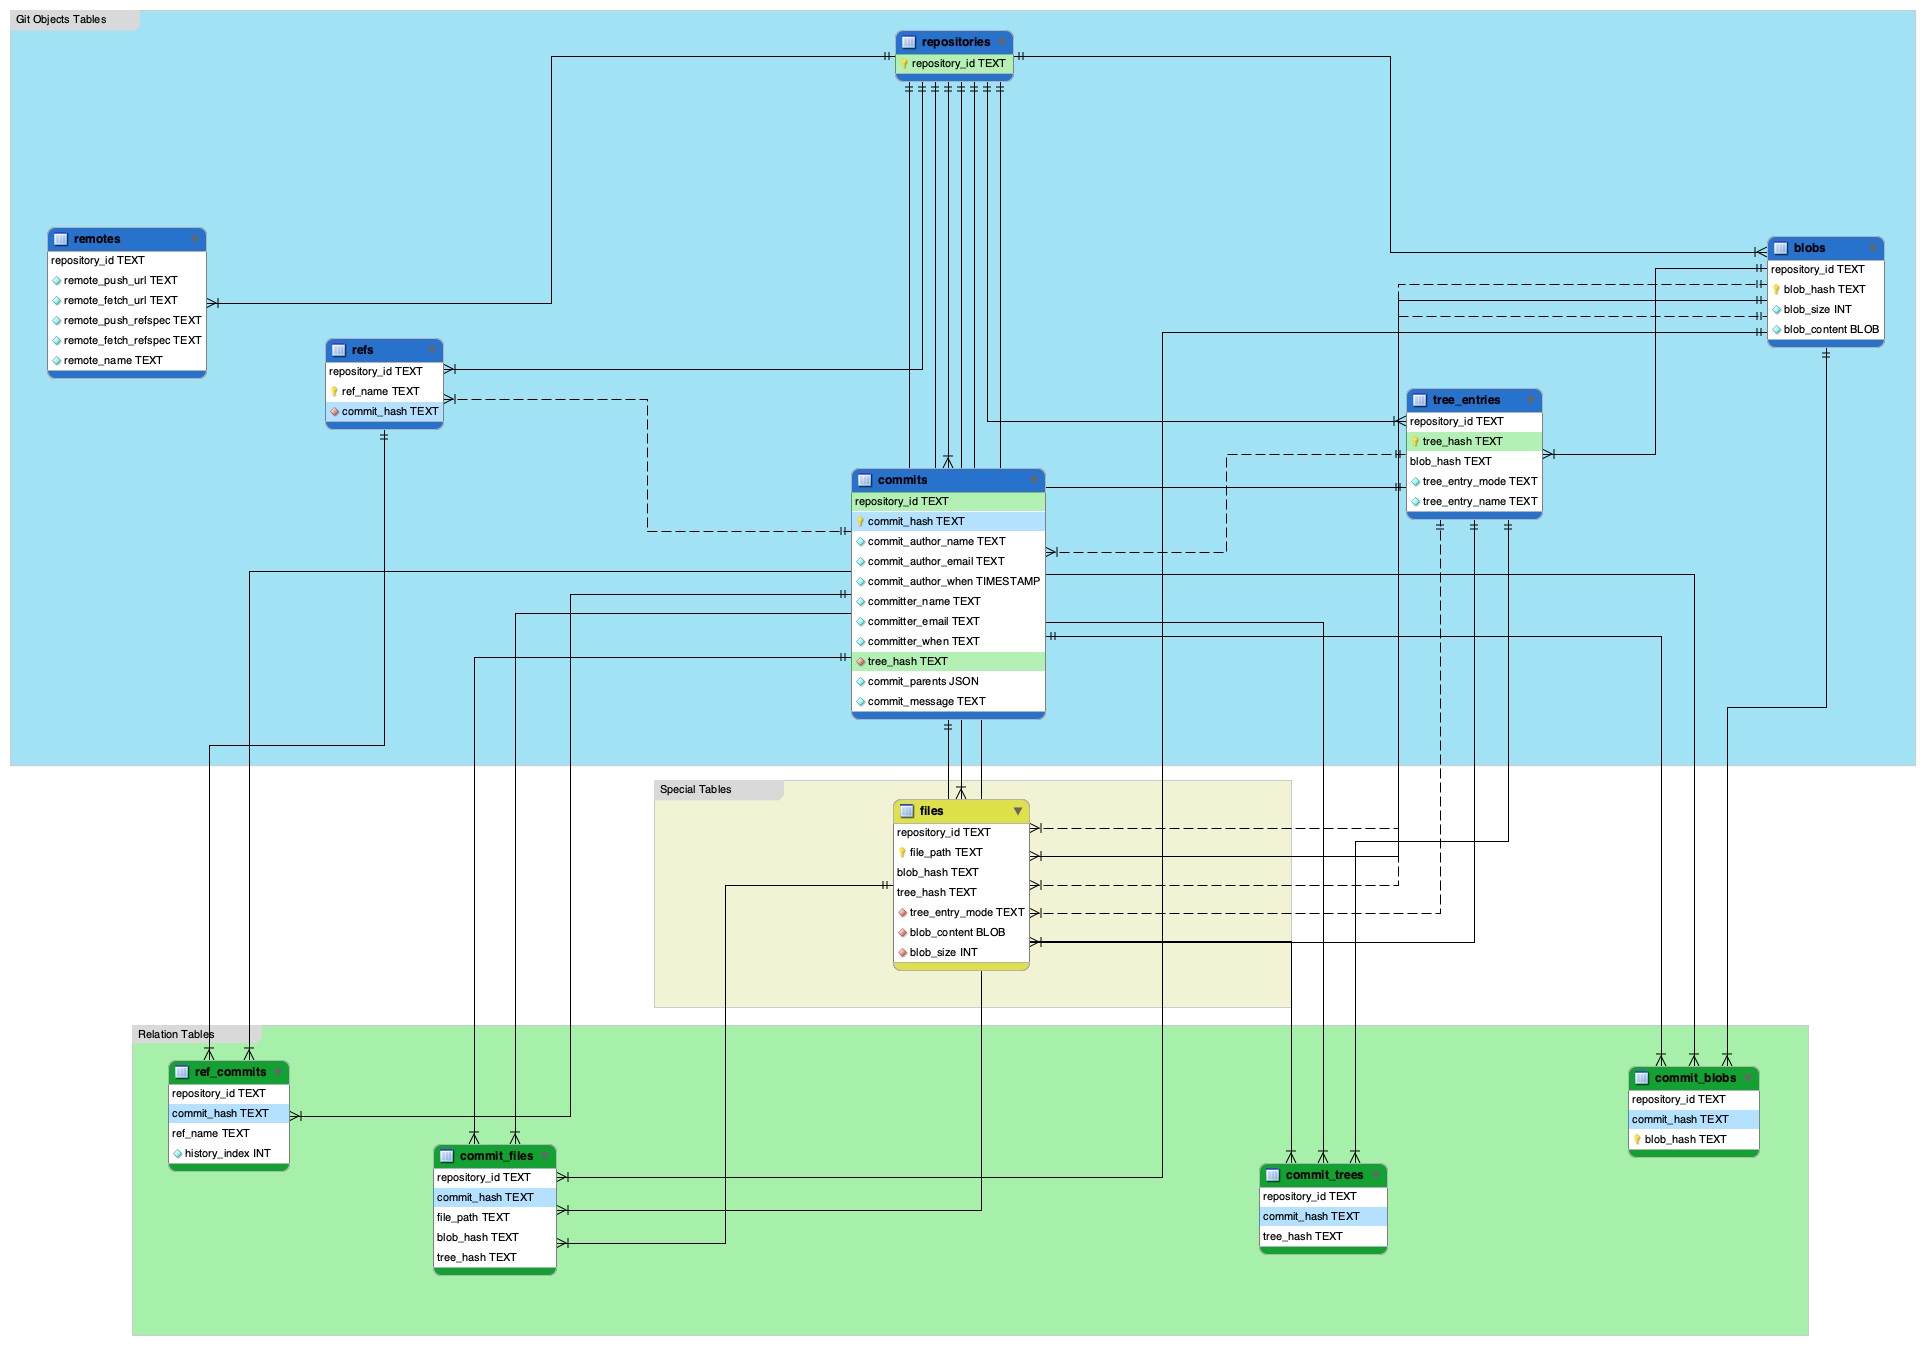
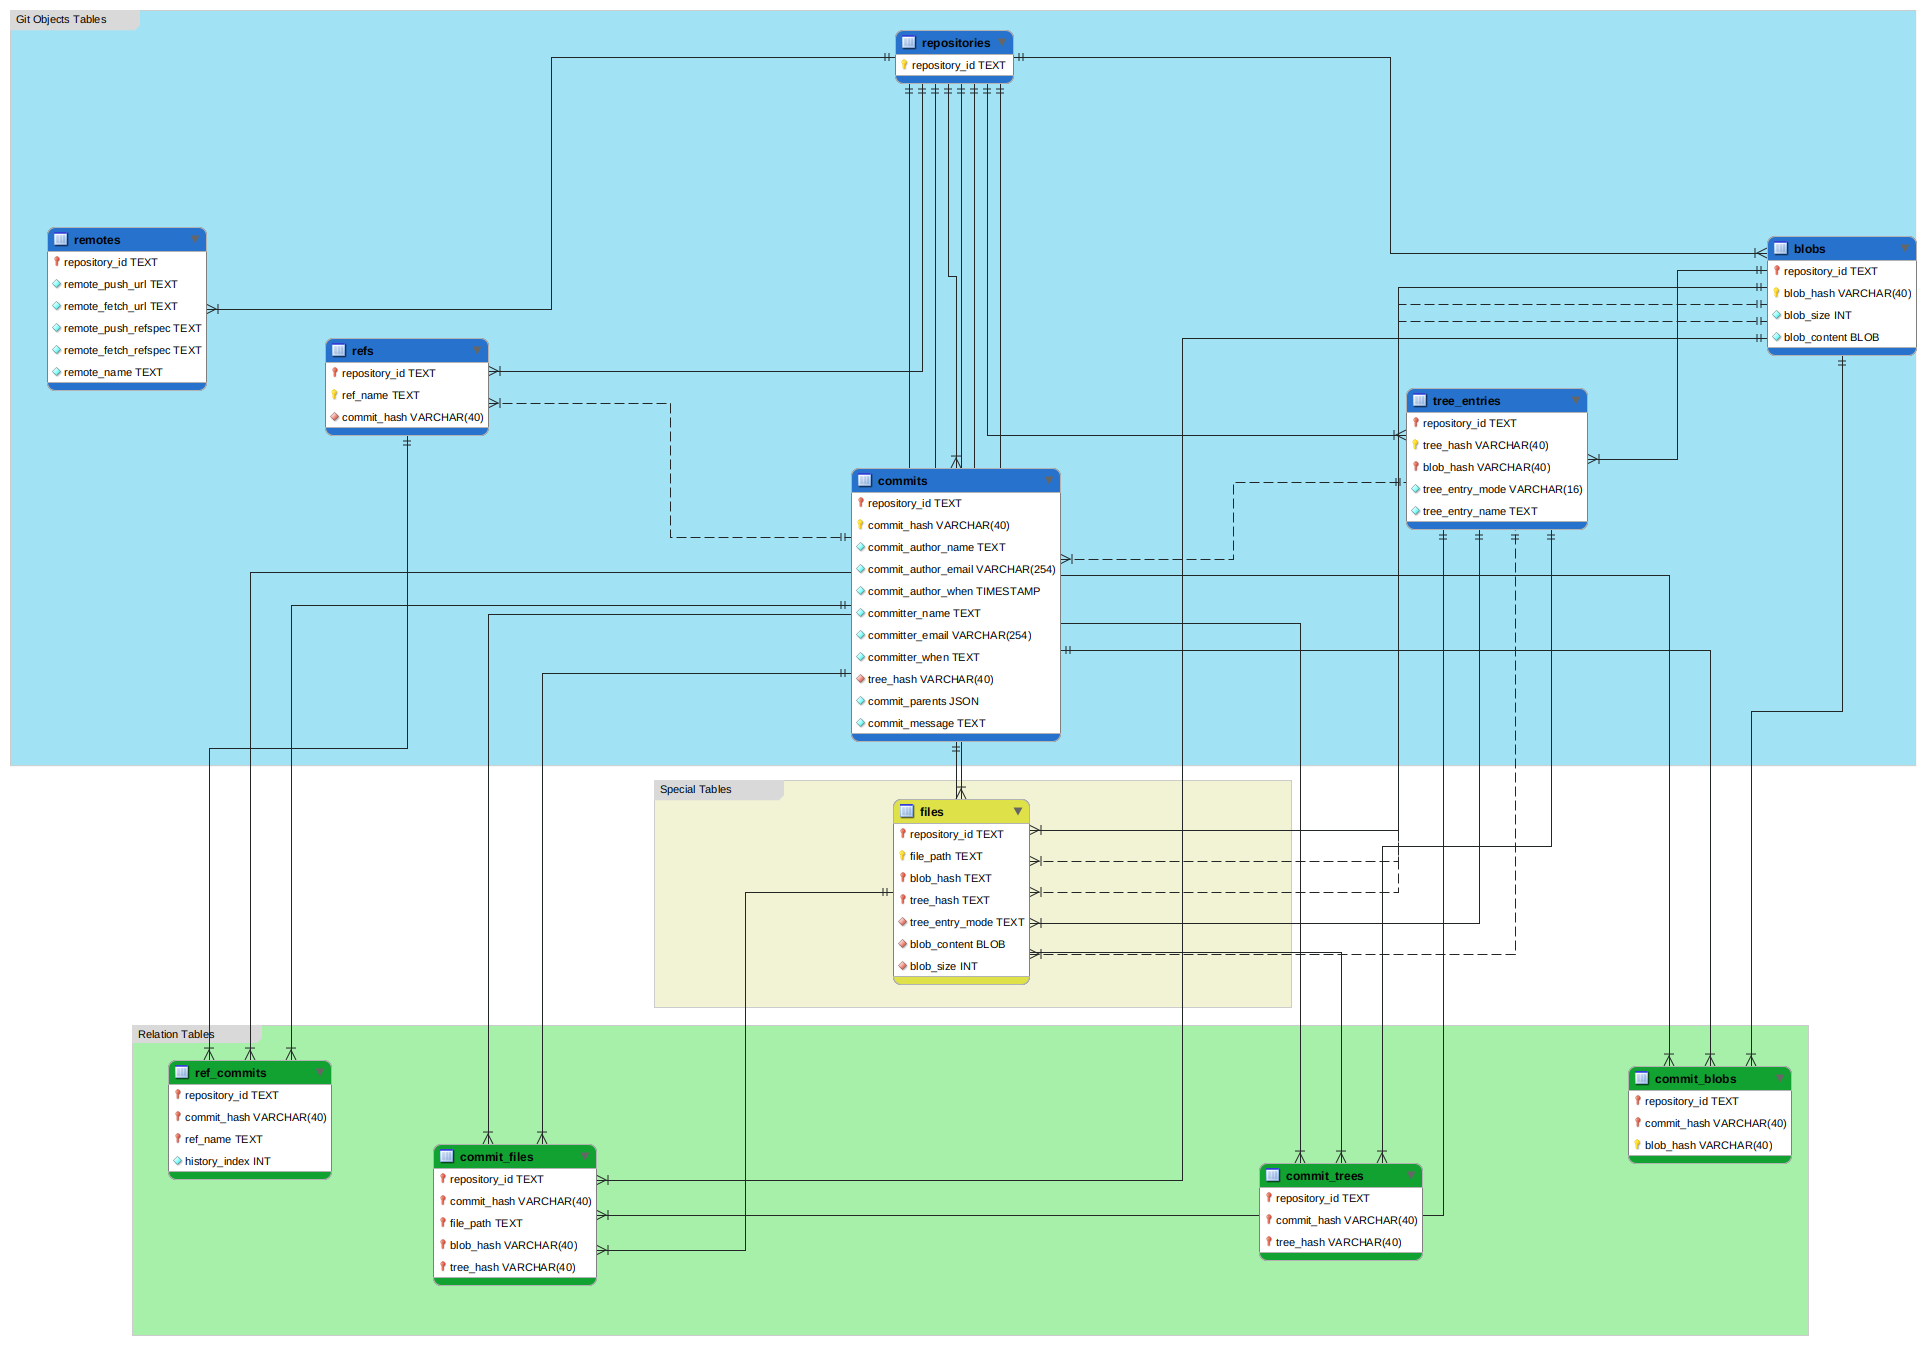
Update schema.md and png files

diff --git a/docs/using-gitbase/schema.md b/docs/using-gitbase/schema.md
@@ -38,33 +38,33 @@ This table will return all the [remotes](https://git-scm.com/book/en/v2/Git-Basi
 
 ### refs
 ``` sql
-+---------------+------+
-| name          | type |
-+---------------+------+
-| repository_id | TEXT |
-| ref_name      | TEXT |
-| commit_hash   | TEXT |
-+---------------+------+
++---------------+-------------+
+| name          | type        |
++---------------+-------------+
+| repository_id | TEXT        |
+| ref_name      | TEXT        |
+| commit_hash   | VARCHAR(40) |
++---------------+-------------+
 ```
 This table contains all hash [git references](https://git-scm.com/book/en/v2/Git-Internals-Git-References) and the symbolic reference `HEAD` from all the repositories.
 
 ### commits
 ``` sql
-+---------------------+-----------+
-| name                | type      |
-+---------------------+-----------+
-| repository_id       | TEXT      |
-| commit_hash         | TEXT      |
-| commit_author_name  | TEXT      |
-| commit_author_email | TEXT      |
-| commit_author_when  | TIMESTAMP |
-| committer_name      | TEXT      |
-| committer_email     | TEXT      |
-| committer_when      | TIMESTAMP |
-| commit_message      | TEXT      |
-| tree_hash           | TEXT      |
-| commit_parents      | JSON      |
-+---------------------+-----------+
++---------------------+--------------+
+| name                | type         |
++---------------------+--------------+
+| repository_id       | TEXT         |
+| commit_hash         | VARCHAR(40)  |
+| commit_author_name  | TEXT         |
+| commit_author_email | VARCHAR(254) |
+| commit_author_when  | TIMESTAMP    |
+| committer_name      | TEXT         |
+| committer_email     | VARCHAR(254) |
+| committer_when      | TIMESTAMP    |
+| commit_message      | TEXT         |
+| tree_hash           | TEXT         |
+| commit_parents      | JSON         |
++---------------------+--------------+
 ```
 
 Commits contains all the [commits](https://git-scm.com/book/en/v2/Git-Internals-Git-Objects#_git_commit_objects) from all the references from all the repositories, not duplicated by repository. Note that you can have the same commit in several repositories. In that case the commit will appear two times on the table, one per repository.
@@ -73,14 +73,14 @@ Commits contains all the [commits](https://git-scm.com/book/en/v2/Git-Internals-
 
 ### blobs
 ```sql
-+---------------+-------+
-| name          | type  |
-+---------------+-------+
-| repository_id | TEXT  |
-| blob_hash     | TEXT  |
-| blob_size     | INT64 |
-| blob_content  | BLOB  |
-+---------------+-------+
++---------------+--------------+
+| name          | type         |
++---------------+--------------+
+| repository_id | TEXT         |
+| blob_hash     | VARCHAR(40)  |
+| blob_size     | INT64        |
+| blob_content  | BLOB         |
++---------------+--------------+
 ```
 
 This table exposes blob objects, that are the content without path from files.
@@ -89,15 +89,15 @@ This table exposes blob objects, that are the content without path from files.
 
 ### tree_entries
 ```sql
-+-----------------+------+
-| name            | type |
-+-----------------+------+
-| repository_id   | TEXT |
-| tree_entry_name | TEXT |
-| blob_hash       | TEXT |
-| tree_hash       | TEXT |
-| tree_entry_mode | TEXT |
-+-----------------+------+
++-----------------+-------------+
+| name            | type        |
++-----------------+-------------+
+| repository_id   | TEXT        |
+| tree_entry_name | TEXT        |
+| blob_hash       | VARCHAR(40) |
+| tree_hash       | VARCHAR(40) |
+| tree_entry_mode | VARCHAR(16) |
++-----------------+-------------+
 ```
 
 `tree_entries` table contains all the objects from all the repositories that are [tree objects](https://git-scm.com/book/en/v2/Git-Internals-Git-Objects#_git_commit_objects).
@@ -105,17 +105,17 @@ This table exposes blob objects, that are the content without path from files.
 
 ### files
 ```sql
-+-----------------+-------+
-| name            | type  |
-+-----------------+-------+
-| repository_id   | TEXT  |
-| file_path       | TEXT  |
-| blob_hash       | TEXT  |
-| tree_hash       | TEXT  |
-| tree_entry_mode | TEXT  |
-| blob_content    | BLOB  |
-| blob_size       | INT64 |
-+-----------------+-------+
++-----------------+--------------+
+| name            | type         |
++-----------------+--------------+
+| repository_id   | TEXT         |
+| file_path       | TEXT         |
+| blob_hash       | VARCHAR(40)  |
+| tree_hash       | VARCHAR(40)  |
+| tree_entry_mode | VARCHAR(16)  |
+| blob_content    | BLOB         |
+| blob_size       | INT64        |
++-----------------+--------------+
 ```
 
 `files` is an utility table mixing `tree_entries` and `blobs` to create files. It includes the file path.
@@ -126,55 +126,55 @@ Queries to this table are expensive and they should be done carefully (applying 
 
 ### commit_blobs
 ```sql
-+---------------+------+
-| name          | type |
-+---------------+------+
-| repository_id | TEXT |
-| commit_hash   | TEXT |
-| blob_hash     | TEXT |
-+---------------+------+
++---------------+-------------+
+| name          | type        |
++---------------+-------------+
+| repository_id | TEXT        |
+| commit_hash   | VARCHAR(40) |
+| blob_hash     | VARCHAR(40) |
++---------------+-------------+
 ```
 
 This table represents the relation between commits and blobs. With this table you can obtain all the blobs contained on a commit object.
 
 ### commit_trees
 ```sql
-+---------------+------+
-| name          | type |
-+---------------+------+
-| repository_id | TEXT |
-| commit_hash   | TEXT |
-| tree_hash     | TEXT |
-+---------------+------+
++---------------+-------------+
+| name          | type        |
++---------------+-------------+
+| repository_id | TEXT        |
+| commit_hash   | VARCHAR(40) |
+| tree_hash     | TEXT        |
++---------------+-------------+
 ```
 
 This table represents the relation between commits and trees. With this table you can obtain all the tree entries contained on a commit object.
 
 ### commit_files
 ```sql
-+---------------+------+
-| name          | type |
-+---------------+------+
-| repository_id | TEXT |
-| commit_hash   | TEXT |
-| file_path     | TEXT |
-| blob_hash     | TEXT |
-| tree_hash     | TEXT |
-+---------------+------+
++----------------------+------+
+| name          | type        |
++----------------------+------+
+| repository_id | TEXT        |
+| commit_hash   | VARCHAR(40) |
+| file_path     | TEXT        |
+| blob_hash     | VARCHAR(40) |
+| tree_hash     | VARCHAR(40) |
++---------------+-------------+
 ```
 
 This table represents the relation between commits and [files](#files). Using this table, you can obtain all the files related to a certain commit object.
 
 ### ref_commits
 ```sql
-+---------------+-------+
-| name          | type  |
-+---------------+-------+
-| repository_id | TEXT  |
-| commit_hash   | TEXT  |
-| ref_name      | TEXT  |
-| history_index | INT64 |
-+---------------+-------+
++---------------+--------------+
+| name          | type         |
++---------------+--------------+
+| repository_id | TEXT         |
+| commit_hash   | VARCHAR(40)  |
+| ref_name      | TEXT         |
+| history_index | INT64        |
++---------------+--------------+
 ```
 
 This table allow us to get the commit history from a specific reference name. `history_index` column represents the position of the commit from a specific reference.

diff --git a/CHANGELOG.md b/CHANGELOG.md
@@ -15,6 +15,8 @@ and this project adheres to [Semantic Versioning](https://semver.org/spec/v2.0.0
 
 - Errors now report the repository causing the error, if possible.
 - Now non rooted siva files support old siva rooted repositories.
+- Switch some types of known or maximum length (mostly hashes and emails)
+  to VarChar with a size.
 - Traces now have a root span.
 
 ### Fixed
